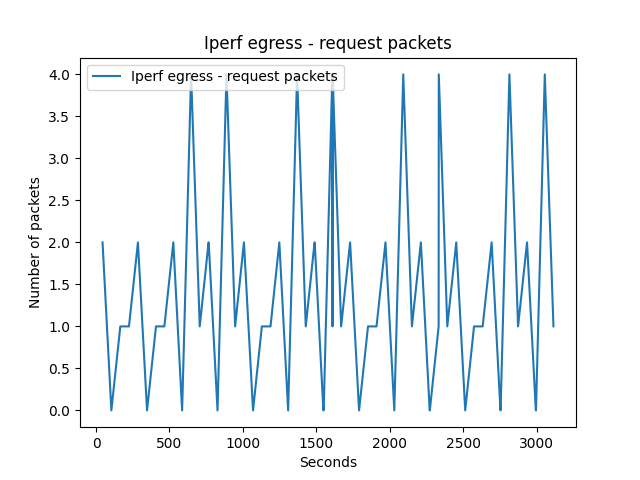
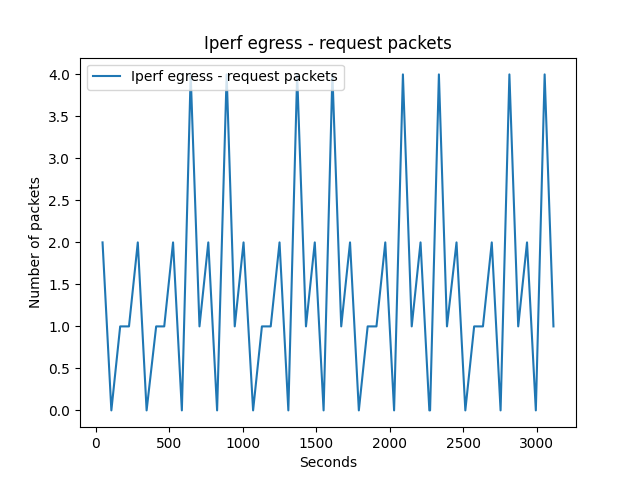
feat: group by 5

diff --git a/1.4/graph14.py b/1.4/graph14.py
@@ -48,8 +48,14 @@ def clockToDatetime(clock):
     return datetime.datetime.strptime(clock[5:], "%H:%M:%S.%f")
 
 
+def roundToNearestFive(numb):
+    base = 5
+    return base * round(numb / base)
+
+
 def clockToSecOffset(clock):
-    secOffset = (clockToDatetime(clock) - startClockTime).seconds
+    secOffset = roundToNearestFive(
+        (clockToDatetime(clock) - startClockTime).seconds)
     return secOffset
 
 
@@ -83,6 +89,8 @@ dataGroupedByOperationAnd = {
     DataGroupings.IPERF_FROM_CLIENT: {},
     DataGroupings.HAS_TO_CLIENT: {},
     DataGroupings.HAS_FROM_CLIENT: {},
+
+
 }
 
 for data in fileData:
